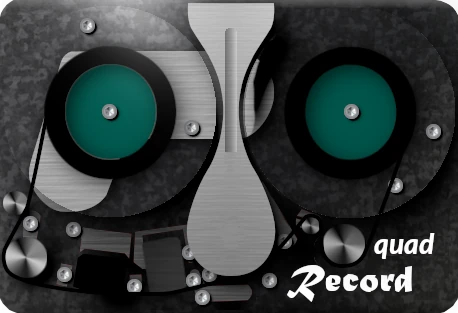
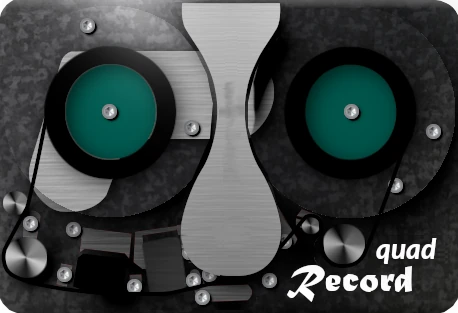
Update Record-Quad

Changed region(s): [[0.3668, 0.0, 0.6114, 0.8914], [0.7948, 0.7476, 0.9782, 0.8626]]

diff --git a/screcord/MOD/modgui/stylesheet-quadrecord.css b/screcord/MOD/modgui/stylesheet-quadrecord.css
@@ -62,11 +62,12 @@
     -ms-perspective: 1000;
     perspective: 1000;
 
+    will-change: transform;
     -webkit-transform: translate3d(0, 0, 0);
     -moz-transform: translate3d(0, 0, 0);
     -ms-transform: translate3d(0, 0, 0);
     transform: translate3d(0, 0, 0);
-    transform: translate(-27.5%, -26%) scale(0.46);
+    transform: translate(-27.5%, -26%) scale(0.45);
 }
 
 .sc_record_quad{{{cns}}} .tape2 {
@@ -87,11 +88,12 @@
     -ms-perspective: 1000;
     perspective: 1000;
 
+    will-change: transform;
     -webkit-transform: translate3d(0, 0, 0);
     -moz-transform: translate3d(0, 0, 0);
     -ms-transform: translate3d(0, 0, 0);
     transform: translate3d(0, 0, 0);
-    transform: translate(+22.5%, -126.5%) scale(0.45);
+    transform: translate(+22.5%, -126.5%) scale(0.43);
 }
 
 /* CONTROLS */
@@ -181,8 +183,8 @@
     overflow: hidden;
     position: absolute;
     text-align: center;
-    margin-left: 94px;
-    margin-top: -92px;
+    margin-left: 100px;
+    margin-top: -82px;
     width: 22px;
 }
 
@@ -198,6 +200,21 @@
     z-index: 2;
     border-radius: 5px 5px 0px 0px;
     box-shadow: 2px 2px 2px 0px #000 inset, -1px -1px 1px 1px #888 inset;
+
+    -webkit-backface-visibility: hidden;
+    -moz-backface-visibility: hidden;
+    -ms-backface-visibility: hidden;
+    backface-visibility: hidden;
+    -webkit-perspective: 1000;
+    -moz-perspective: 1000;
+    -ms-perspective: 1000;
+    perspective: 1000;
+
+    will-change: transform;
+    -webkit-transform: translate3d(0, 0, 0);
+    -moz-transform: translate3d(0, 0, 0);
+    -ms-transform: translate3d(0, 0, 0);
+    transform: translate3d(0, 0, 0);
 }
 
 .sc_record_quad{{{cns}}} .mod-meter .mod-meter-image-right {
@@ -213,6 +230,21 @@
     z-index: 2;
     border-radius: 5px 5px 0px 0px;
     box-shadow: 2px 2px 2px 0px #000 inset, -1px -1px 1px 1px #888 inset;
+
+    -webkit-backface-visibility: hidden;
+    -moz-backface-visibility: hidden;
+    -ms-backface-visibility: hidden;
+    backface-visibility: hidden;
+    -webkit-perspective: 1000;
+    -moz-perspective: 1000;
+    -ms-perspective: 1000;
+    perspective: 1000;
+
+    will-change: transform;
+    -webkit-transform: translate3d(0, 0, 0);
+    -moz-transform: translate3d(0, 0, 0);
+    -ms-transform: translate3d(0, 0, 0);
+    transform: translate3d(0, 0, 0);
 }
 
 /* ENUMERATED LIST */

diff --git a/screcord/MOD/modgui/stylesheet-stereorecord.css b/screcord/MOD/modgui/stylesheet-stereorecord.css
@@ -66,6 +66,7 @@
     -ms-perspective: 1000;
     perspective: 1000;
 
+    will-change: transform;
     -webkit-transform: translate3d(0, 0, 0);
     -moz-transform: translate3d(0, 0, 0);
     -ms-transform: translate3d(0, 0, 0);
@@ -91,6 +92,7 @@
     -ms-perspective: 1000;
     perspective: 1000;
 
+    will-change: transform;
     -webkit-transform: translate3d(0, 0, 0);
     -moz-transform: translate3d(0, 0, 0);
     -ms-transform: translate3d(0, 0, 0);
@@ -201,6 +203,21 @@
     z-index: 2;
     border-radius: 5px 5px 0px 0px;
     box-shadow: 2px 2px 2px 0px #000 inset, -1px -1px 1px 1px #888 inset;
+
+    -webkit-backface-visibility: hidden;
+    -moz-backface-visibility: hidden;
+    -ms-backface-visibility: hidden;
+    backface-visibility: hidden;
+    -webkit-perspective: 1000;
+    -moz-perspective: 1000;
+    -ms-perspective: 1000;
+    perspective: 1000;
+
+    will-change: transform;
+    -webkit-transform: translate3d(0, 0, 0);
+    -moz-transform: translate3d(0, 0, 0);
+    -ms-transform: translate3d(0, 0, 0);
+    transform: translate3d(0, 0, 0);
 }
 
 .sc_record_stereo{{{cns}}} .mod-meter .mod-meter-image-right {
@@ -216,6 +233,21 @@
     z-index: 2;
     border-radius: 5px 5px 0px 0px;
     box-shadow: 2px 2px 2px 0px #000 inset, -1px -1px 1px 1px #888 inset;
+
+    -webkit-backface-visibility: hidden;
+    -moz-backface-visibility: hidden;
+    -ms-backface-visibility: hidden;
+    backface-visibility: hidden;
+    -webkit-perspective: 1000;
+    -moz-perspective: 1000;
+    -ms-perspective: 1000;
+    perspective: 1000;
+
+    will-change: transform;
+    -webkit-transform: translate3d(0, 0, 0);
+    -moz-transform: translate3d(0, 0, 0);
+    -ms-transform: translate3d(0, 0, 0);
+    transform: translate3d(0, 0, 0);
 }
 
 /* ENUMERATED LIST */

diff --git a/screcord/MOD/modgui/stylesheet-monorecord.css b/screcord/MOD/modgui/stylesheet-monorecord.css
@@ -54,7 +54,7 @@
     -moz-perspective: 1000;
     -ms-perspective: 1000;
     perspective: 1000;
-
+    will-change: transform;
     -webkit-transform: translate3d(0, 0, 0);
     -moz-transform: translate3d(0, 0, 0);
     -ms-transform: translate3d(0, 0, 0);
@@ -79,7 +79,7 @@
     -moz-perspective: 1000;
     -ms-perspective: 1000;
     perspective: 1000;
-
+    will-change: transform;
     -webkit-transform: translate3d(0, 0, 0);
     -moz-transform: translate3d(0, 0, 0);
     -ms-transform: translate3d(0, 0, 0);
@@ -191,6 +191,21 @@
     margin-top: 0px;
     position: relative;
     z-index: 2;
+
+    -webkit-backface-visibility: hidden;
+    -moz-backface-visibility: hidden;
+    -ms-backface-visibility: hidden;
+    backface-visibility: hidden;
+    -webkit-perspective: 1000;
+    -moz-perspective: 1000;
+    -ms-perspective: 1000;
+    perspective: 1000;
+
+    will-change: transform;
+    -webkit-transform: translate3d(0, 0, 0);
+    -moz-transform: translate3d(0, 0, 0);
+    -ms-transform: translate3d(0, 0, 0);
+    transform: translate3d(0, 0, 0);
 }
 
 /* ENUMERATED LIST */

diff --git a/screcord/MOD/modgui/icon-quadrecord.html b/screcord/MOD/modgui/icon-quadrecord.html
@@ -22,7 +22,10 @@
             <div class="mod-led-image" mod-role="CLIP" mod-port-symbol="{{symbol}}"></div>
         </div>
         <div class="mod-meter" title="{{comment}}">
-            <div class="mod-meter-image-right" mod-role="LMETER" mod-port-symbol="{{symbol}}"></div>
+            <div class="mod-meter-image" mod-role="LMETER" mod-port-symbol="{{symbol}}"></div>
+        </div>
+        <div class="mod-meter" title="{{comment}}">
+            <div class="mod-meter-image-right" mod-role="RMETER" mod-port-symbol="{{symbol}}"></div>
         </div>
     </div>
     <div class="mod-pedal-input">
